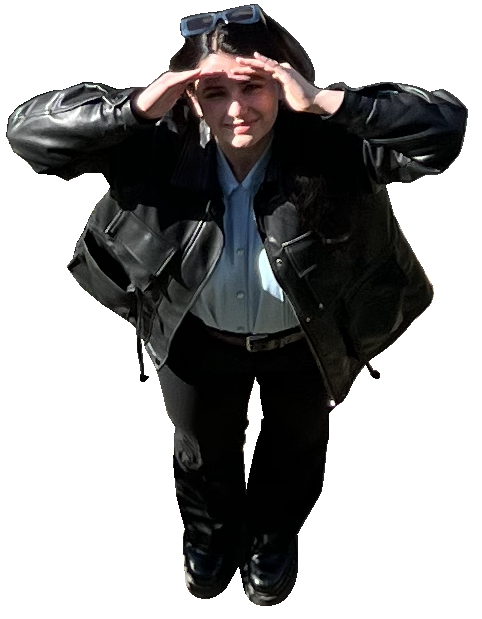
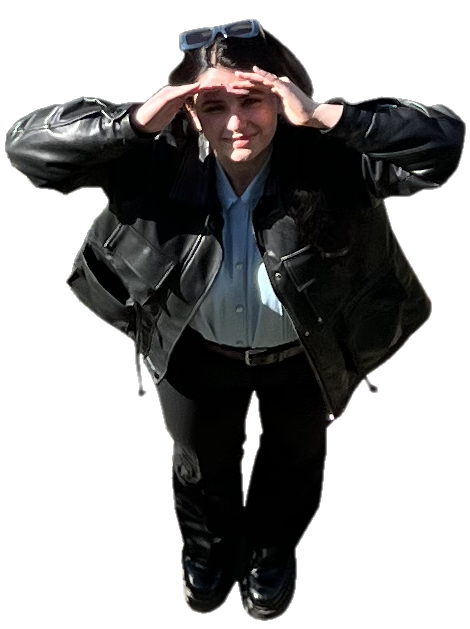
implementing text - over8teen

diff --git a/project.html b/project.html
@@ -42,18 +42,19 @@
 
     <main>
     <section class="image_section">
-    <img src="img/cover_over8teen.png" alt="coverbillede">
+    <img src="img/over8teen_desktop2.png" alt="coverbillede">
     </section>
     <section class="first_section">
       <button class="custom-btn btn"><a href="https://github.com/simonemiar/over8teen" style="color: inherit;" target="_blank"><span>GITHUB</span></a></button>
       <button class="custom-btn btn"><a href="http://simonemiar.dk/over8teen/" style="color: inherit;" target="_blank"><span>LIVE VERSION</span></a></button>
     </section>
     <section class="second_section">
-      <h2 class="project_name">PROJECT UNO</h2>
-      <p class="context">Context:</p>
-      <p class="resources">Resources:</p>
-      <p class="year">Year:</p>
-      <p class="situation_text">Lorem ipsum, dolor sit amet consectetur adipisicing elit. Voluptate laboriosam autem repellendus nemo sequi quia dolorem id corporis, officiis laborum cum esse tenetur impedit tempore sit ea nesciunt neque ipsam doloribus quos nihil magni a quam eos! Quos fuga inventore omnis sapiente alias expedita blanditiis esse illo dolores! Dolore, saepe.</p>
+      <h2 class="project_name">over8teen</h2>
+      <div class="project_details">
+        <p class="context"> <strong>CONTEXT:</strong> Solo Side Project</p>
+        <p class="year"><strong>YEAR:</strong> 2022</p>
+      </div>
+      <p class="situation_text">Small side project I did for my colleagues at my part-time job as a bartender. The solution was made to stop a repeating pattern after working 6 years within the industry </p>
     </section>
     <section class="process_container">
       <h3>PROCESS</h3>
@@ -61,28 +62,29 @@
       <div id="process_text" class="features_text">
         <h4>01</h4>
         <p>
-          Lorem ipsum, dolor sit amet consectetur adipisicing elit. Ipsum,
-          minima veritatis! Dolore explicabo debitis labore vero ipsa adipisci
-          nam iure? Ex, quod necessitatibus eligendi non magni quasi et eaque
-          natus!
+          <strong>The features</strong>
+          - Light and dark mode theme toggle.
+          - A Calculator that figures out when people are 18.
+          - Local storage who remembers which theme your device chose last time.
+          
         </p>
       </div>
       <div id="process_text" class="background_text">
         <h4>02</h4>
         <p>
-          Lorem ipsum, dolor sit amet consectetur adipisicing elit. Ipsum,
-          minima veritatis! Dolore explicabo debitis labore vero ipsa adipisci
-          nam iure? Ex, quod necessitatibus eligendi non magni quasi et eaque
-          natus!
+          <strong>The background:</strong>
+          I saw a tendency that a lot of my colleagues had a hard time counting backwards on when people were old enough to be served alcohol. I have seen over sites during this, but never with the specific date and an ability for dark mode.
+
         </p>
       </div>
       <div id="process_text" class="result_text">
         <h4>03</h4>
         <p>
-          Lorem ipsum, dolor sit amet consectetur adipisicing elit. Ipsum,
-          minima veritatis! Dolore explicabo debitis labore vero ipsa adipisci
-          nam iure? Ex, quod necessitatibus eligendi non magni quasi et eaque
-          natus!
+          <strong>The result:</strong>
+          Small project which calculates the date people were born to be 18 years old. I have seen website during it with the year before, but never with the specific date and an ability for dark theme website with local storage.
+          <br>
+          Therefore I decided to create over8teen
+
         </p>
       </div>
     </section>

diff --git a/scss/components/_project-body.scss b/scss/components/_project-body.scss
@@ -1,28 +1,6 @@
 @use "../base/color";
 @use "../base/fonts";
 
-// .first_section {
-//   display: grid;
-//   grid-template-columns: 1fr 1fr;
-//   margin: 15px;
-//   column-gap: 0.5em;
-
-//   img {
-//       width: 100%;
-//       // filter: sepia(100%) hue-rotate(190deg) saturate(500%);
-//       border-radius: 100px 100px 0px 0px;
-//       grid-column: span 2;
-//       // padding-bottom: 10px
-//       border: 1px solid blue;
-      
-//   }
-
-//   button {
-//     width: 100%;
-//     margin-top: 8px;
-//   }
-
-// }
 
 .image_section {
   
@@ -48,7 +26,19 @@
 
 }
 
+.second_section{
+  .project_details{
+    display: flex;
+    gap: 20px;
 
+    
+    p{
+      padding-left: 5px;
+      border-left: solid 2px color.$blue;
+      
+    }
+  }
+}
 
 
 .process_container {

diff --git a/scss/components/_font-page.scss b/scss/components/_font-page.scss
@@ -57,7 +57,6 @@ html {
     text-align: center;
     color: blue;
     height: 30vh;
-    padding: 25px 0px;
 
     .learn_more {
         margin: 0 auto;
@@ -75,7 +74,6 @@ html {
         display: grid;
         grid-template-columns: repeat(4, 1fr);
         filter: grayscale(100%);
-        // filter: sepia(100%) hue-rotate(190deg) saturate(500%);
 
         img{
             width: 50px;
@@ -91,6 +89,8 @@ html {
     div.about.image{
         img{
             width: 100%;
+            filter: sepia(100%) hue-rotate(190deg) saturate(500%);
+
         }
     }   
 }
@@ -124,6 +124,11 @@ html {
         height: 60vh;
         padding-top: 140px;
     }
+
+    .index_cta{
+        padding-top: 40px;
+    }
+
 
     .about_section{
 

diff --git a/scss/layout/_header.scss b/scss/layout/_header.scss
@@ -2,7 +2,7 @@
 
 .logo a img {
     margin: 10px 0px 6px 0px;
-    width: 2.6rem;
+    width: 1.8rem;
     z-index: 10;
     position: relative;
 }
@@ -11,7 +11,7 @@
   display: flex;
   height: 8vh;
   align-items: center;
-  font-size: 1.9rem;
+  font-size: 1.6rem;
   padding: 3rem;
   z-index: 1000;
   position: relative;
@@ -75,7 +75,7 @@
   .logo {
     padding: 0;
     a img {
-      width: 2rem;
+      width: 2.6rem;
     }
   }
 

diff --git a/index.html b/index.html
@@ -96,7 +96,7 @@
     
     <section class="index_cta">
     <!-- <button class="custom-btn btn" id="cta"><a href="project.html" style="color: inherit;"><span> CHECK OUT MY PROJECTS </span></a></button>   -->
-    <p class="learn_more">SCROLL TO CHECK ME OUT</p>
+    <p class="learn_more">GET TO KNOW ME</p>
     <a href="#about">
       <div id="mouse-scroll">
         <div class="mouse">

diff --git a/scss/base/_fonts.scss b/scss/base/_fonts.scss
@@ -54,7 +54,6 @@
 
 %headline4-font {
     font-family: 'Montserrat', sans-serif; 
-    font-weight: 300;
     font-size: calc(0.5rem + (18 - 0.5) * ((100vw - 300px) / (1600 - 300)));
     text-transform: uppercase;
     color: color.$blue;

diff --git a/scss/components/_button.scss b/scss/components/_button.scss
@@ -1,6 +1,5 @@
 @use "../base/color";
 
-/* From uiverse.io by @DGtalsam */
 .custom-btn {
 width: 200px;
 height: 40px;
@@ -95,4 +94,3 @@ width: 100%;
 color:color.$blue;
 background: transparent;
 }
-

diff --git a/scss/layout/_body.scss b/scss/layout/_body.scss
@@ -4,7 +4,6 @@ main{
     padding: 15px;
 
     a{
-        display: grid;
         margin: 0 auto;
     }
 }
